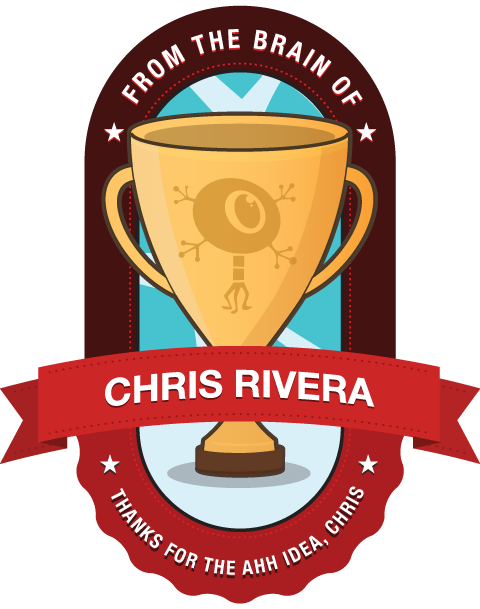
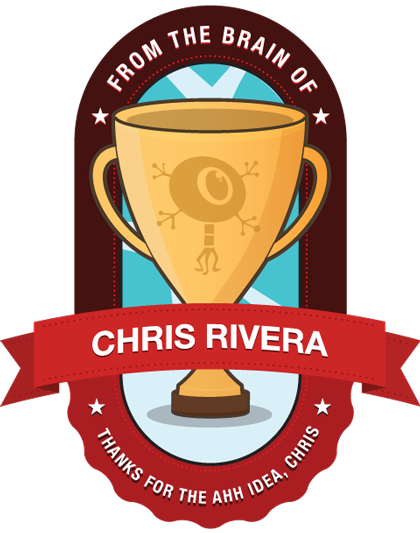
Smaller badge

diff --git a/assets/badge.css b/assets/badge.css
@@ -59,6 +59,6 @@
 
 @media all and (min-width: 600px) {
   #badge {
-    background-size: 800px 800px;
+    background-size: 700px 700px;
   }
 }

diff --git a/readme.md b/readme.md
@@ -2,4 +2,4 @@
 
 Just add all the assets and markup, update references, then do `AhhBadge.init()` at the appropriate time.
 
-Recommend making your `badge.png` ~480px wide.
+Recommend making your `badge.png` ~420px wide.
